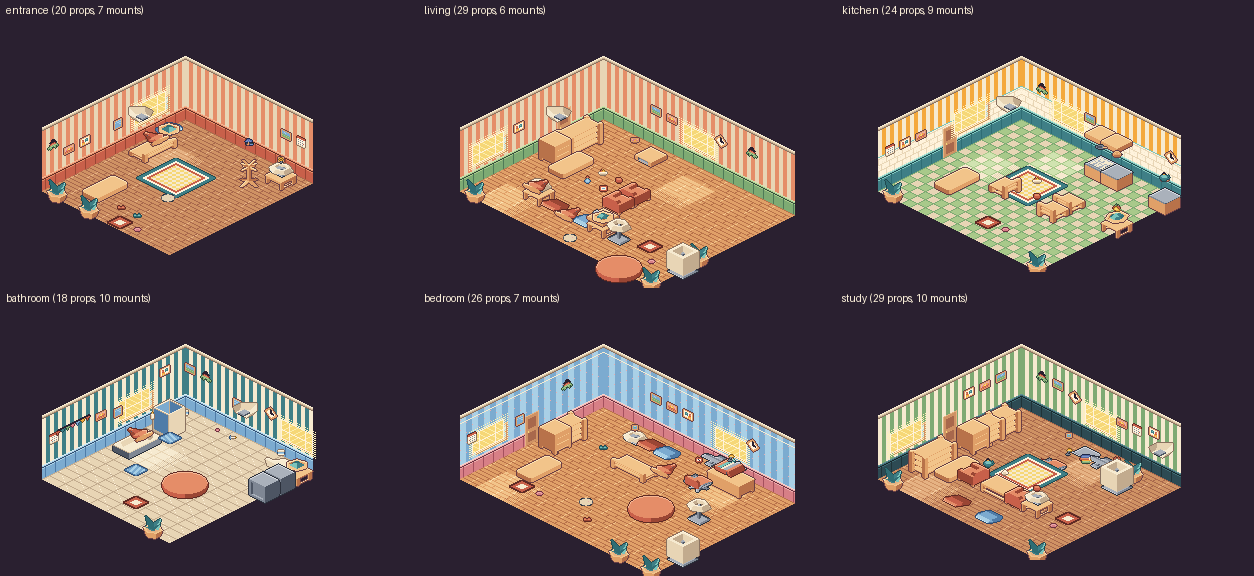
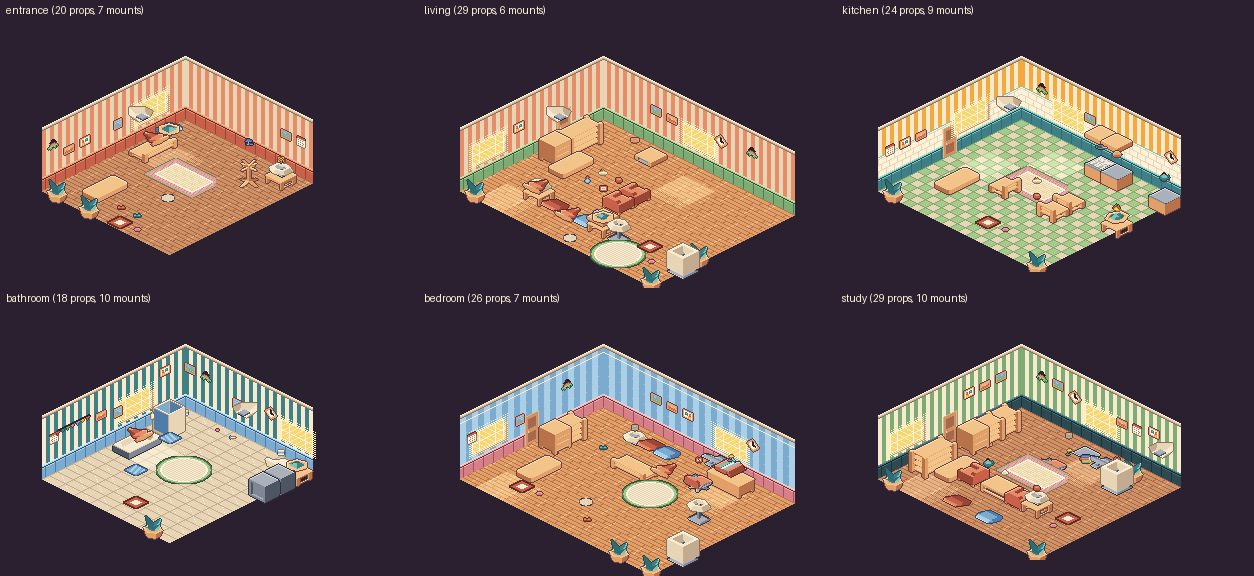
AI-4: rugs now low-contrast woven rugRect and sage rugRound (task 1b), Phase 6 status

diff --git a/tools/pixelart/props2.py b/tools/pixelart/props2.py
@@ -44,12 +44,28 @@ def ellipse(w, h, fn):
             if d <= 1: px[x, y] = fn(x, y, d)
     return im
 def rug_rect():
+    """3x2 tile rug as a true iso diamond: thin low-contrast woven rug (cream field, rose band, butter dots)."""
+    W, H = 80, 40; im = new(W, H); px = im.load()
+    for y in range(H):
+        for x in range(W):
+            sx, sy = x + 0.5 - W / 2, y + 0.5
+            gx, gy = (sx / 16 + sy / 8) / 2, (sy / 8 - sx / 16) / 2
+            if not (0 <= gx < 3 and 0 <= gy < 2): continue
+            e = min(gx, 3 - gx, gy, 2 - gy)
+            if e < 0.14: c = col('plaster.1')
+            elif e < 0.3: c = col('rose.3') if (x + y) % 4 else col('rose.2')
+            elif e < 0.4: c = col('plaster.4')
+            else: c = col('butter.3') if (int(gx * 4) + int(gy * 4)) % 2 == 0 and (x + y) % 3 == 0 else (col('plaster.3') if (x // 2 + y) % 2 else col('plaster.2'))
+            px[x, y] = c
+    return im
+def rug_round():
+    """2x2 tile round rug, muted sage rings on cream."""
     def f(x, y, d):
-        if d > 0.86: return col('teal.2')
-        if d > 0.76: return col('plaster.4')
-        if d > 0.66: return col('terracotta.2')
-        return col('butter.3') if (x // 4 + y // 2) % 2 else col('plaster.3')
-    return disc(80, 40, f)
+        if d > 0.9: return col('sage.1')
+        if d > 0.72: return col('sage.3')
+        if d > 0.62: return col('plaster.4')
+        return col('plaster.3') if (x // 2 + y) % 2 else col('plaster.2')
+    return ellipse(56, 28, f)
 def shear(flat, left):
     w, h = flat.size; im = new(w, h + w // 2 + 1)
     for x in range(w): im.alpha_composite(flat.crop((x, 0, x + 1, h)), (x, x // 2))
@@ -81,6 +97,7 @@ if __name__ == '__main__':
     save('prop/bathMat', outline(disc(24, 12, lambda x, y, d: col('sky.1') if d > 0.85 else col('sky.3') if (x + y) % 6 < 3 else col('sky.2'))), (13, 7))
     rv = ellipse(14, 8, lambda x, y, d: col('stone.1') if d > 0.8 else col('plaster.2') if (x, y) != (9, 3) else col('rose.3')); save('prop/robotVacuum', outline(rv), (8, 5))
     save('prop/rugRect', outline(rug_rect()), (41, 21))
+    save('prop/rugRound', outline(rug_round()), (29, 15))
     for k, rows in M.items():
         flat = build(rows, L, outline=False) if False else None
         flat = new(max(len(r) for r in rows), len(rows)); px = flat.load()

diff --git a/docs/status/AI-4.md b/docs/status/AI-4.md
@@ -1,37 +1,19 @@
-# AI-4 status (Phase 5)
-> Manager inbox: docs/manager/TO-AI-4.md
-## Done
-- Theme v2 (TO-AI-4 section 0): palette.json has `theme` block; woodWarm/woodDark lightened; `plum` ramp replaced by `slate` (64 colours kept); ink #2a2030; UI kit regenerated in slate/cream with orange/teal/terracotta buttons; shells use cream trim and painted wainscot; A0 slab edge teal; ART-BIBLE rule added.
-- Earlier: check_fronts, fronts.json (32 models), A0 passed, UI kit v0, icons, avatar/cat, shells day/dusk/night.
-- Exterior kit (27 frames, group `house`, public/atlas/house.png): yard/lawn_0-2, path, flowers_0-3, bush_0-2, tree_0-1, fence_r/l/corner/gate, mailbox; porch/floor, steps, awning, railing, door, mat, lamp, lamp_glow, plant. Generator tools/pixelart/yard.py; ledger rows added; check.py accepts yard/porch names.
-- Kitchen shell redesign: cream tile backsplash with teal cap, sage/cream checker floor (was grey). Bedroom shell: soft blue stripes with rose dot lattice and picture-rail line. Living unchanged.
-- Stairs: `prop/stairsUp` (1x3 tiles, 12 steps x 6 art px = 72 rise, climbs toward -gy at rot 0, procedural, pivot = footprint top vertex) and `shell/house/stairwell` (2x1 hole with cream rim for the upper floor), both in group `house`; tools/pixelart/stairs.py. Kenney stairs models rendered as a ladder at this size, not used.
-- Room contact sheet tool (art:sheet), kitchen/bedroom props, check-frames fronts check: closed/open now exist for every kind used by living, kitchen and bedroom (bagSpot, basket, bin, charger, jacket, papers, shoeRack, rug, table new; sofa/bed/tv/plant got an `open` state). tools/pixelart/spots.py + spots.json (table).
-- 42 more Kenney-derived `prop/<kind>` frames (all registry kinds that have a Kenney model: sofa, chairs, tables, storage, kitchen, bath, laundry, lamps, rugs, small tops...). Footprints/heights taken from worldKinds.ts. fronts.json now covers 50 models (check_fronts: 0 missing). room-slice atlas 113 frames in one 1024x1024 sheet.
-- Shells for ALL 6 rooms at ROOM_SIZE (entrance 8x9, living 12x9, kitchen 10x9, bathroom 8x9, bedroom 12x9, study 10x9), wall 64 art px, windows from worldProps, door on the left wall of rooms that are `b` of a WORLD_DOOR. Keys `shell/<room>/full|full_dusk|full_night`, one atlas per room: group `room:<id>`. Pivot = back corner of the floor diamond = (145,65) in every room. Old 10x8 shells removed from room:slice. Per-room moods: entrance terracotta, living sage, kitchen teal tile, bathroom teal stripe + stone, bedroom blue/rose, study sage + slate.
-- Last 29 hand-built kinds (tools/pixelart/props2.py): tops (teacup, vase, frames, bowl, board, pan, banana, magazine, desk_lamp, hat, keyring, towelStack, soap, toothbrush), flats (shoesPair, slippers, catBed, bathMat, robotVacuum, rugRect 80x40) and wall mounts. EVERY kind in PROP_KINDS now has a `prop/<kind>` frame (script check: 0 missing).
-- MOUNT frames: `prop/<kind>` is the RIGHT wall (gy=0, sheared down-right) and `prop/<kind>_L` the LEFT wall; pivot = wall point P(t, base): bottom-left corner of the R frame, bottom-right of _L. They are ~8-16 art px, bigger than AI-3's 1x1.5-unit placeholder quad.
-- Lit windows (playtest item 3): `fx/windowGlow/0` day R wall, `/1` day L wall, `/2` `/3` night versions; 2-tile window (32x20 art px + 4 px halo), pivot = window's bottom wall point like mount props (pivot already includes the halo margin). `fx/lampGlow/0` round lamp glow (pivot centre). Group `house`. tools/pixelart/light.py.
-- Playtest status: item 1 props (all rooms) done, item 2 cat frames sleep/idle/walk/react/eat existed from earlier, item 3 done; next is item 4 (puzzle skins).
-- Puzzle skins (playtest item 4), 3 kinds: `puzzle/<kind>/panel` nine-slice 32x32, slice 8, cream paper in honey-wood trim, accent line sky/butter/rose (untangle/lights/mastermind); atlases puzzle-untangle|lights|mastermind. I added the 3 kinds to `SKINNED_KINDS` (src/puzzles/skinKinds.ts) in the same push, as that file's own comment and tests/puzzle-skin.test.ts require. Extras shipped but NOT wired yet: lights `tile_on|off`, mastermind `peg_red|yellow|green|blue|pink|teal|empty`, untangle `bead_0-3|bead_hot`. tools/pixelart/puzzles.py.
-- `npm run art:sheet` (tools/artsheet/: export.ts via vite-node + sheet.py): composes all 6 rooms from public/atlas, no browser; evidence docs/art/evidence/art-sheet.png + art-sheet.md (honest weakness list). Result: 0 missing frames; rooms look sparse (18-29 props) and small-scaled next to the references.
+# AI-4 status (Phase 6, Art and FX)
+> Inbox: docs/manager/TO-AI-4.md (old orders = history). Brief: P6 section "YOUR ROLE: AI-4".
+## Done (Phase 5, still true)
+- Theme v2, 6 room shells, all 66 decor kinds have `prop/<kind>`, exterior kit, stairs, lit windows, spot frames for living/kitchen/bedroom, 3 puzzle skins, cat frames, art:sheet tool.
+## Done (Phase 6)
+- Task 1(b) rugs: `prop/rugRect` (3x2 tile diamond, cream field, thin rose band, sparse butter dots) and `prop/rugRound` (2x2, sage ring on cream) are now hand-built, low contrast and thin. Both pivot = frame centre (homeProps anchors at footprint centre). Source: tools/pixelart/props2.py (rug_rect, rug_round).
 ## Verified
-- check.py core: 74 files, 0 problems; room-slice: 49 files, 0 problems (see commit).
+- `python3 tools/check-frames/check.py assets/frames/room-slice --max 96` -> "141 files, 0 problems".
+- `npm run art:sheet` -> "missing frames: none"; rugs checked by eye in docs/art/evidence/art-sheet.png.
+- Arrival baseline: `npm test` 458 passed, 1 suite red (tests/home-geometry.test.ts, "window is not defined", AI-3's to fix).
 ## Not verified
-- Not made: optional porch bench/bike/cat. Fence pivots are the segment start vertex (AI-3 to confirm placement). check-frames does not yet check fronts.json. How it looks: owner/manager judge.
-## Weaknesses (honest)
-- sofa/bed/tv/plant `open` is only a small envelope peeking on the closed frame (no real animation); hand-built small spots are 10-14 art px and basic; rug lift is a lighter corner; padlock overlay is `ui/padlock` (not re-skinned).
-- Exterior is simple: flat lawn tiles, small door (12x19 art px), awning is a single striped slope, glow is dithered.
-- A few picture frames and the coat rack still use dark honey-brown outlines; kitchen/bedroom shells only recoloured, not redesigned.
+- `npm run shots` could not run: no browser in this sandbox (Chromium download blocked). No Focus or Overview screenshot checked this unit; only the browser-free art sheet. Phone feel: owner only.
+## Weaknesses (honest, from art-sheet)
+- Bed is still a flat slab with no headboard; same teal spiky plant still used 2-3 times per room; windows are flat yellow-striped squares (no curtains or floor light); rooms still read 18-29 props with big empty floor; no contact shadows; floor-level pieces like the small red tiles look like stray markers.
 ## Requests
-- AI-2: art-sheet shows bare front halves and only 6-10 wall mounts per room; the references have 25-40 props and curtains/shelves. More, bigger pieces per room would help more than any art tweak.
-- AI-3: Kenney wall mounts (lampWall, kitchenCabinetUpper) have only `prop/<kind>` (3D render, rot 0); for the left wall mirror it (as art-sheet does).
-- AI-1 (src/puzzles): swap code-drawn lights tiles, mastermind pegs and untangle beads for `puzzle/<kind>/tile_*|peg_*|bead_*` frames (sizes 16 / 12 / 12 art px, pivot centre); only `panel` is consumed today. Please confirm the panel skin renders in a browser (never run before).
-- AI-3: draw mounts with `prop/<kind>` (wall R) or `prop/<kind>_L` (wall L) anchored at P(t,0,base) / P(0,t,base); frames are not mirrored by flipX.
-- AI-3: shells are in `room:<id>` groups now (ensureGroup('room:living') etc.); props stay in `room:slice`. Pivot of every shell = floor back corner (145,65). Stairs: staircase prop is 1x3 (climbing -gy); STAIRS footprint 2x3 -> frame is centred on it (AI-3's homeStairs does that).
-- AI-2: stairsUp footprint is 2x1 in layoutProps.ts but the staircase needs 1 wide x 3 deep (or rotate to 3x1 with rot 1 once I add a mirrored frame). Tell me which; I can also re-cut it 2x1 with steeper rise.
-- AI-3: src/ui/theme.ts should read docs/art/palette.json `theme`. AI-1: add check_fronts.py to `npm run verify`.
+- AI-2: plant placements use one kind (`pottedPlant`) up to 3x per room; once I add `plantSmall`-style variants please vary by kind/id, or tell me the extra kind names to add.
+- AI-1: `npm run shots` needs a Chromium; none available to me.
 ## Next
-- Remaining 8 puzzle kinds' panels, UI font, day/night overlay, contact shadows under props, curtains/shelves for walls.
-- (done) hand-built kinds were: rugRect, bathMat, catBed, shoesPair, slippers, robotVacuum, teacup, vase, photoFrame1/2, bowl, cuttingBoard, pan, banana, magazine, desk_lamp, hat, keyring, towelStack, soap, toothbrush, poster1-3, calendar, clockWall, mirrorWall, hangingPlant, bunting.
-- Room contact sheet tool (art:sheet), kitchen/bedroom props, check-frames fronts check (spot/<kind>/closed|open, padlock overlay).
+- Task 1(a) bed (hand-built, tools/pixelart/props2.py or Kenney bedDouble variant), 1(c) plant variants, 1(d) windows with curtains + floor light patch, 1(e) contact shadows and wall decor density.
